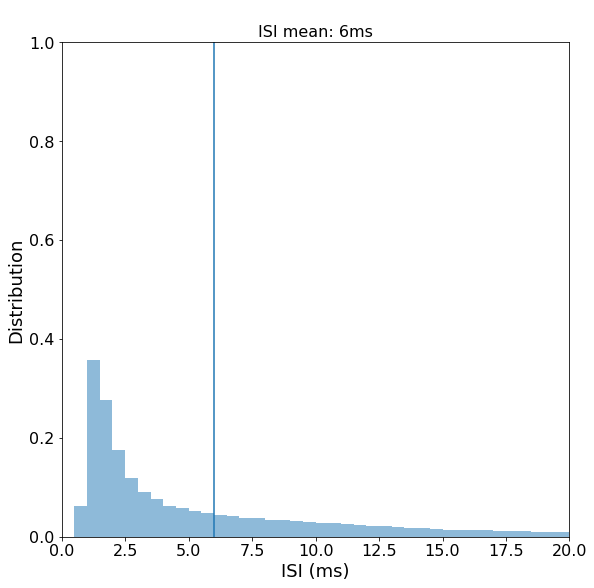
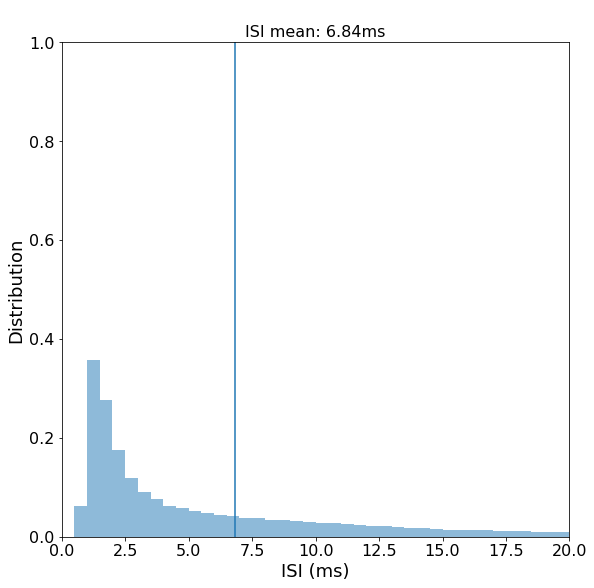
new gifs

Changed region(s): [[0.3939, 0.0918, 0.4242, 0.8878], [0.3333, 0.0918, 0.3636, 0.8878], [0.3939, 0.0306, 0.6667, 0.0612]]

diff --git a/Neuron.py b/Neuron.py
@@ -39,7 +39,7 @@ def simulate_neuron(tau_n, Iapp, number, v0, n0, duration, I_noise, dt=.001*ms):
 
     return M.t_, M.i_, Mv.t_, Mv.v_, Mn.n_    
     
-def find_points(tau_n, Iapp, v0=[-75,-31.2,-50]*mV,n0=[.0,0,.005], plot = False):
+def find_points(tau_n, Iapp, v0=[-75,-31.2,-50]*mV,n0=[.0,0,.01], plot = False):
     '''finds the node and lowest point of limimt cycle in terms of voltage values
         trying to define threshold automatically '''
     dt=.00005*ms
@@ -55,10 +55,10 @@ def find_points(tau_n, Iapp, v0=[-75,-31.2,-50]*mV,n0=[.0,0,.005], plot = False)
     if plot:
         plot_bifurcation(t,V[-1],n[-1], node, saddle, sep_slope, cycle_boundary)
         plot_field(tau_n, Iapp, plot=True)
-        cut = np.where(V[-2]>=saddle[0])
-        print(V[-2][cut])
-        plt.plot(V[-2][cut], n[-2][cut], color = 'grey', linewidth = 5)
-        plt.savefig('points/'+file_name+'.png') 
+#        cut = np.where(V[-2]>=saddle[0])
+#        print(V[-2][cut])
+#        plt.plot(V[-2][cut], n[-2][cut], color = 'grey', linewidth = 5)
+        plt.savefig('points/'+file_name+'.png', bbox_inches = 'tight') 
         plt.show()
 
     return node, saddle, sep_slope, cycle_boundary
@@ -131,13 +131,13 @@ def plot_everything(tau_n, Iapp, duration, I_noise, number =1, plot = False):
    
   
 def plot_bifurcation(t,V,n,node,saddle, sep_slope, cycle_boundary):
-    plt.figure(figsize=(7, 7))
+    plt.figure(figsize=(8, 8))
     plt.plot(V.T,n.T, color = '#4B0082', linewidth = 5)
     plt.plot(node[0], node[1],marker='o', color='0', ms = 15)
     plt.plot(saddle[0], saddle[1], marker = 'o', color = '.5', ms=15)
     y = np.linspace(-.1,.7,50)
     x = sep_slope[0]/sep_slope[1]*(y-saddle[1])+saddle[0]
-#    plt.plot(x,y, color = '0', linestyle = '--',linewidth = 1)
+    plt.plot(x,y, color = '0', linestyle = '--',linewidth = 5)
     plt.xlim((-70,0))
     plt.xticks(fontsize=16)
     plt.ylim((-.05,.7))
@@ -313,7 +313,7 @@ def plot_segments_hist(results):
 def find_saddle(tau_n, Iapp, node, cycle_boundary):
     '''Finds saddle location given parameters'''
     #Find point with smallest derivative vector located between the node and the limit cycle
-    v_grid ,n_grid = np.meshgrid(np.linspace(node[0]+.05*(cycle_boundary[0]-node[0]),cycle_boundary[0],1000), 
+    v_grid ,n_grid = np.meshgrid(np.linspace(node[0]+.05*(cycle_boundary[0]-node[0]),cycle_boundary[0],5000), 
                                  np.linspace(-0,.05,1000))
     dv_grid = ((-g_Na*1./(1+exp((-20-v_grid)/15.))*(v_grid-E_Na/mV)-g_K*n_grid*(v_grid-E_K/mV)
                 -g_L*(v_grid-E_L/mV)+Iapp/mV)/Cm)*ms
@@ -392,14 +392,14 @@ m_inf = 1./(1+exp((-20-v/mV)/15.)) : 1
 #
 #tau_n = args[0] * ms
 #Iapp = args[1] * uA #/cm**2
-tau_n = .160 * ms
-Iapp =3.2 * uA #/cm**2
+tau_n = .155 * ms
+Iapp =4.3 * uA #/cm**2
 I_noise = 3*uA
 duration = 40*ms
 
 #find_points(tau_n, Iapp, plot = True)
 
-plot_everything(tau_n=tau_n, Iapp=Iapp, duration=duration, I_noise=I_noise, number =5, plot=True)
+#plot_everything(tau_n=tau_n, Iapp=Iapp, duration=duration, I_noise=I_noise, number =5, plot=True)
 
 
 #Spikes, t, V, n = simulate_neuron(tau_n, Iapp, 1, -30*mV, 0, duration, I_noise)

diff --git a/plot_hists_segments.py b/plot_hists_segments.py
@@ -136,7 +136,7 @@ def plot_separately(name, log = False, cut=20, fit = None):
                         plt.hist(flat_results, normed = True, bins = 40,  alpha = .5, range = ((0,cut)), log = log, label = key)
                         plt.xlim((0,cut))
             #            plot_fit(flat_results, cut, fit)
-                        means[key] = int(flat_results.mean())
+                        means[key] = round(flat_results.mean(), 2)
 #                        means[key] = round(flat_results.mean(),2)
                     means_title_part = ''.join(['\n' + key + ' mean: ' + str(means[key]) + 'ms' for key in keys])
                     title = ''
